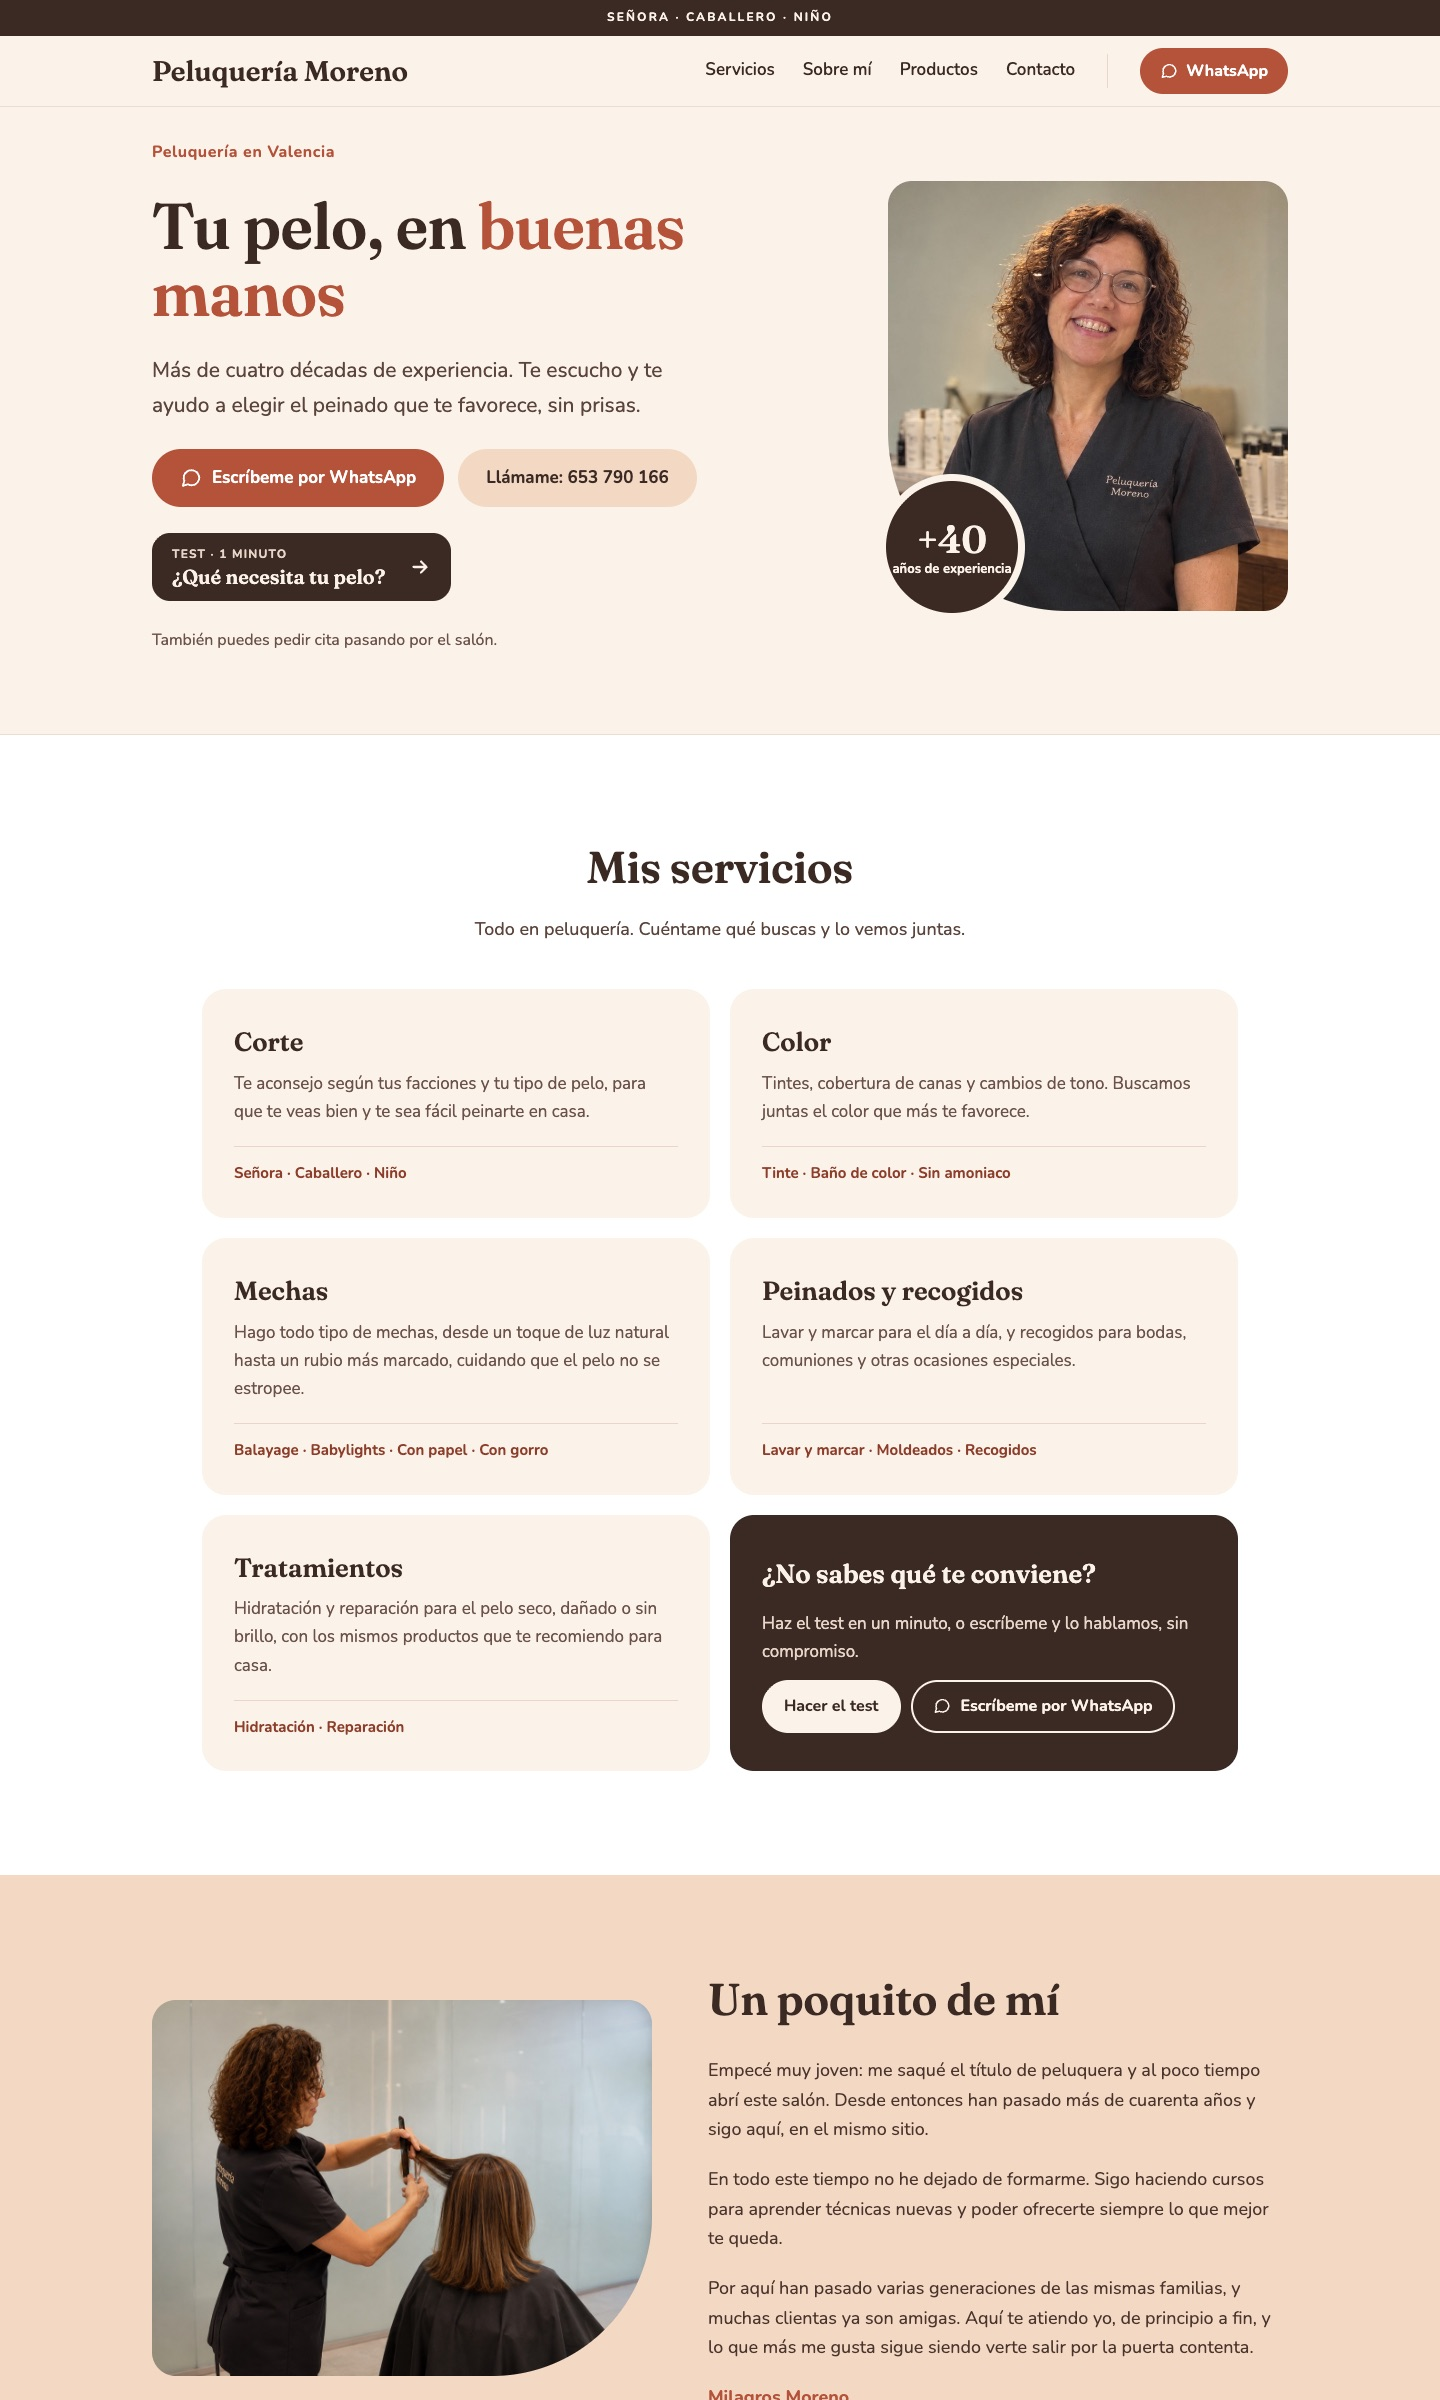
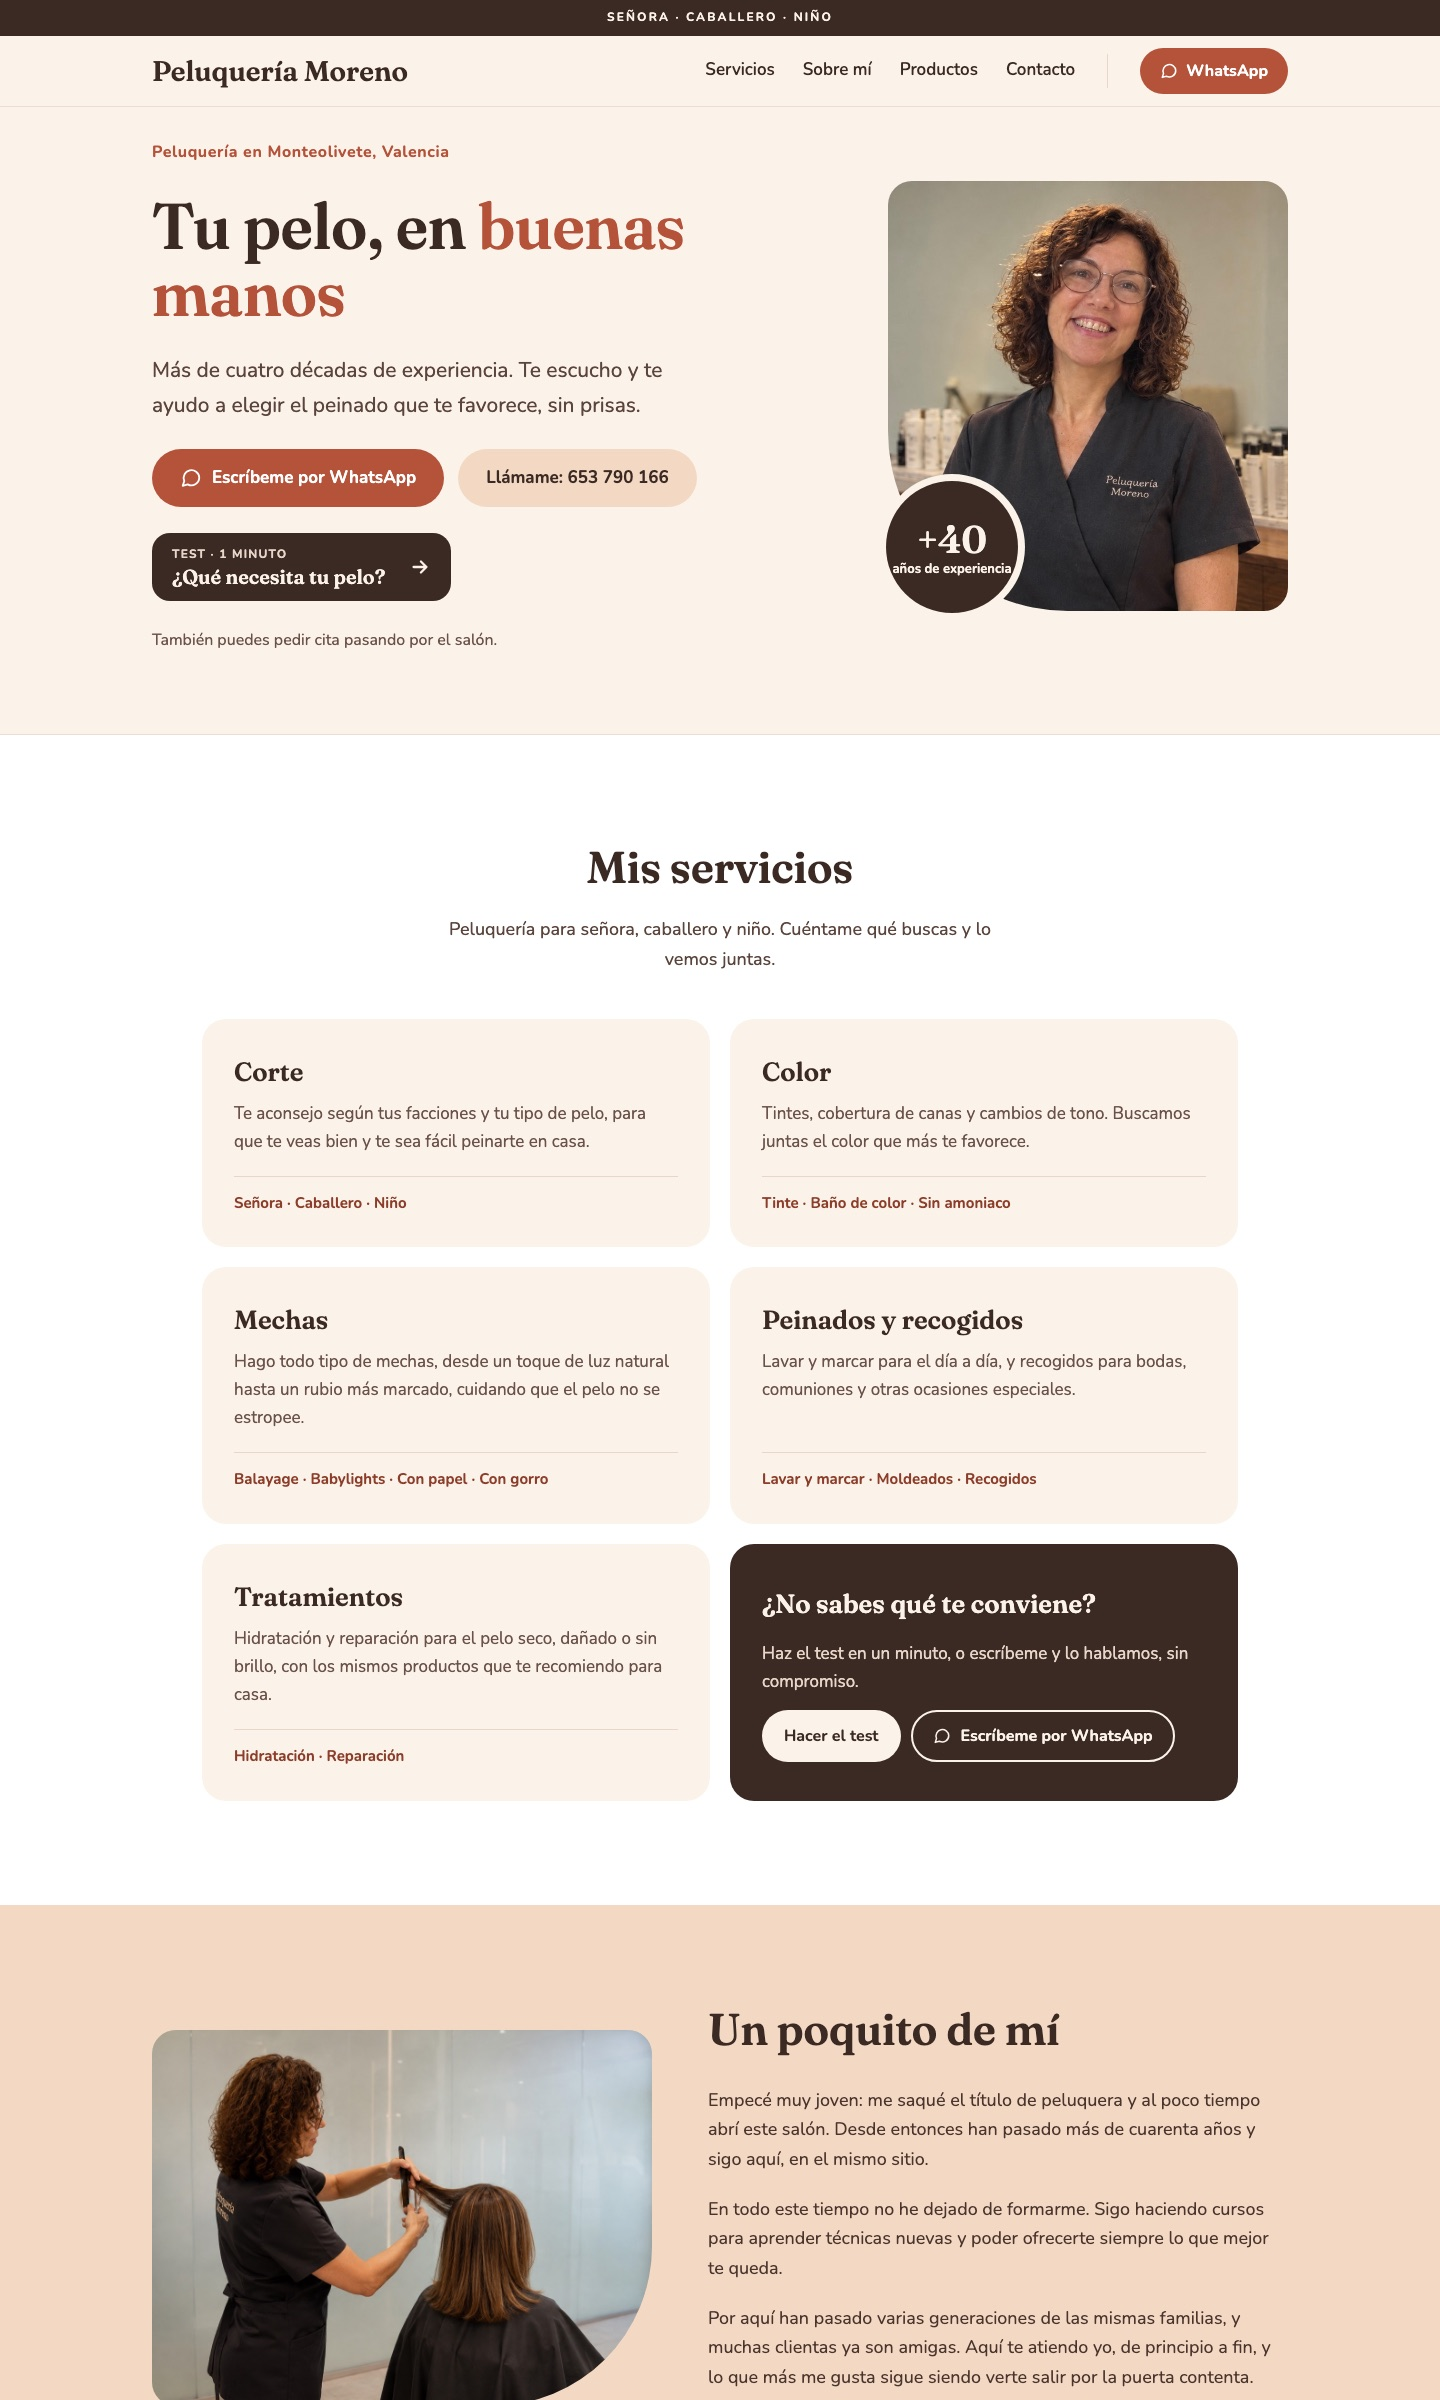
Actualiza las capturas de Peluquería Moreno y Embrava con las webs publicadas

diff --git a/work/embrava.html b/work/embrava.html
@@ -194,7 +194,7 @@
 
       <ul class="phones" tabindex="0" aria-label="Screens of the Embrava store on mobile">
         <li>
-          <div class="phone-view"><img src="../images/embrava-m-kits.jpg" alt="Kits section on mobile, starting with the Gym kit: its 20% saving, three pieces and their prices" width="780" height="1688" loading="lazy"></div>
+          <div class="phone-view"><img src="../images/embrava-m-kits.jpg" alt="Kits section on mobile, starting with the Gym kit: its 20% saving, its three pieces and the kit price" width="780" height="1688" loading="lazy"></div>
           <span>1. Kits lead the way</span>
         </li>
         <li>
